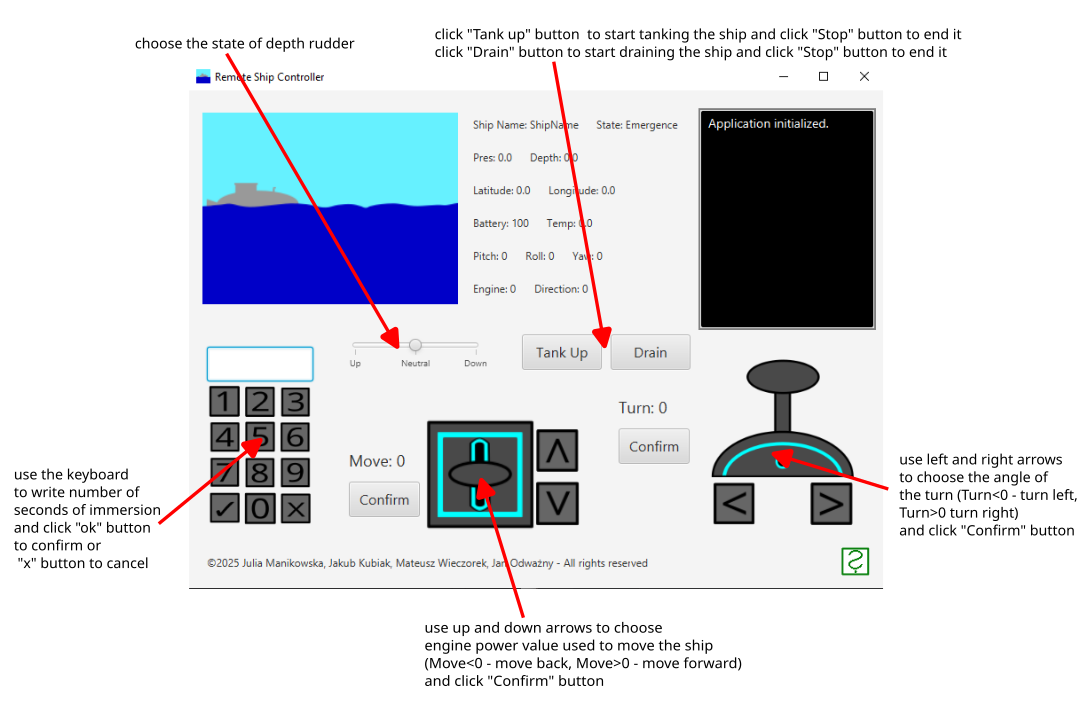
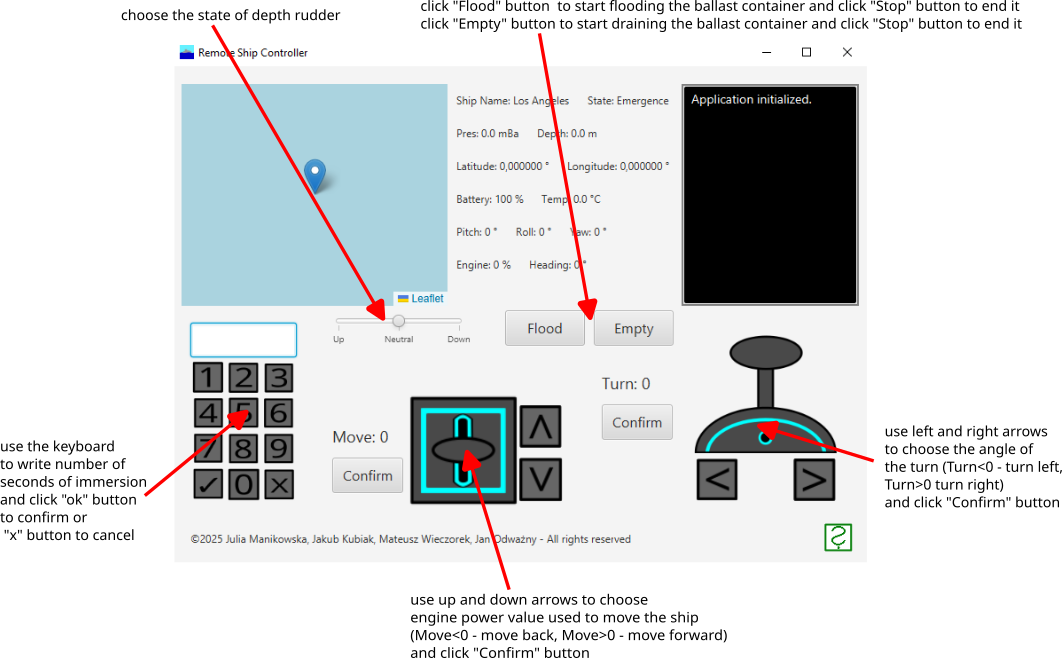
fixing labels

Changed region(s): [[0.0, 0.0, 0.9633, 1.0], [0.5593, 0.5167, 1.0, 0.8511], [0.7458, 0.5167, 0.7768, 0.5471]]

diff --git a/src/main/java/org/example/ShipController.java b/src/main/java/org/example/ShipController.java
@@ -101,8 +101,10 @@ public class ShipController {
     private SubmarineController submarineController;
     private CommService commService;
 
-    private double lat = 52.461976;
-    private double lon = 16.826015;
+    //private double lat = 52.461976;
+    //private double lon = 16.826015;
+    private double lat = 0;
+    private double lon = 0;
     private WebView mapView;
     private WebEngine webEngine;
 
@@ -366,7 +368,7 @@ public class ShipController {
     //Handling tanking button
     private void handleTankButton(){
         stopButton.setVisible(true);
-        logMessage("Tanking up");
+        logMessage("Flooding the container");
         disableControls(true);
 
         //TODO: dodac obsluge wysylania rozkazu o zapelnianiu
@@ -391,11 +393,11 @@ public class ShipController {
 
         switch(choice){
             case 0:
-                button.setText("Tank Up");
+                button.setText("Flood");
                 button.setOnAction(event -> handleTankButton());
                 break;
             case 1:
-                button.setText("Drain");
+                button.setText("Empty");
                 button.setOnAction(event -> handleDrainButton());
                 break;
         }
@@ -469,25 +471,25 @@ public class ShipController {
             case "up":
                 Image upImage = new Image(getClass().getResource("/images/base_move_up.png").toExternalForm());
                 joystickMoveImageView.setImage(upImage);
-                x++;
+                x+=5;
                 posXLabel.setText("Move: " + x);
                 break;
             case "down":
                 Image downImage = new Image(getClass().getResource("/images/base_move_down.png").toExternalForm());
                 joystickMoveImageView.setImage(downImage);
-                x--;
+                x-=5;
                 posXLabel.setText("Move: " + x);
                 break;
             case "left":
                 Image leftImage = new Image(getClass().getResource("/images/base_turn_left.png").toExternalForm());
                 joystickTurnImageView.setImage(leftImage);
-                turn--;
+                turn-=5;
                 posTurnLabel.setText("Turn: " + turn);
                 break;
             case "right":
                 Image rightImage = new Image(getClass().getResource("/images/base_turn_right.png").toExternalForm());
                 joystickTurnImageView.setImage(rightImage);
-                turn++;
+                turn+=5;
                 posTurnLabel.setText("Turn: " + turn);
                 break;
         }
